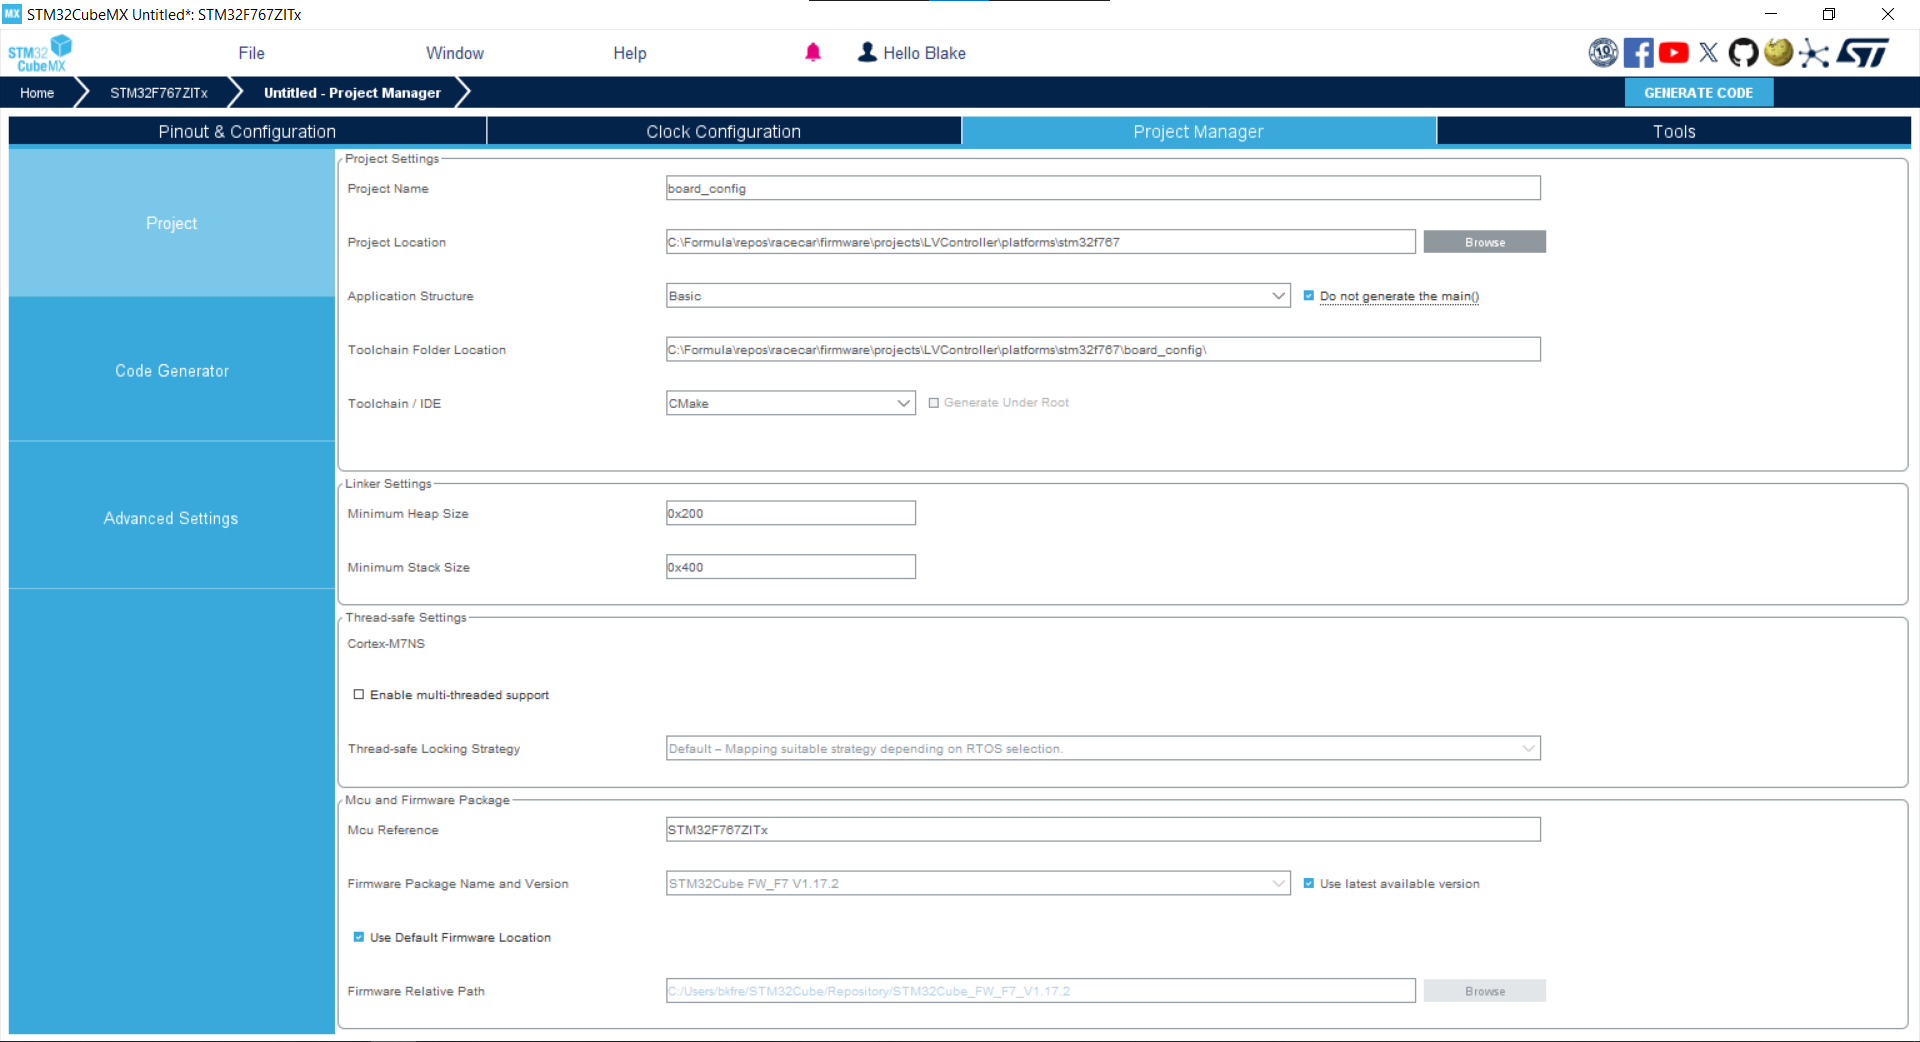
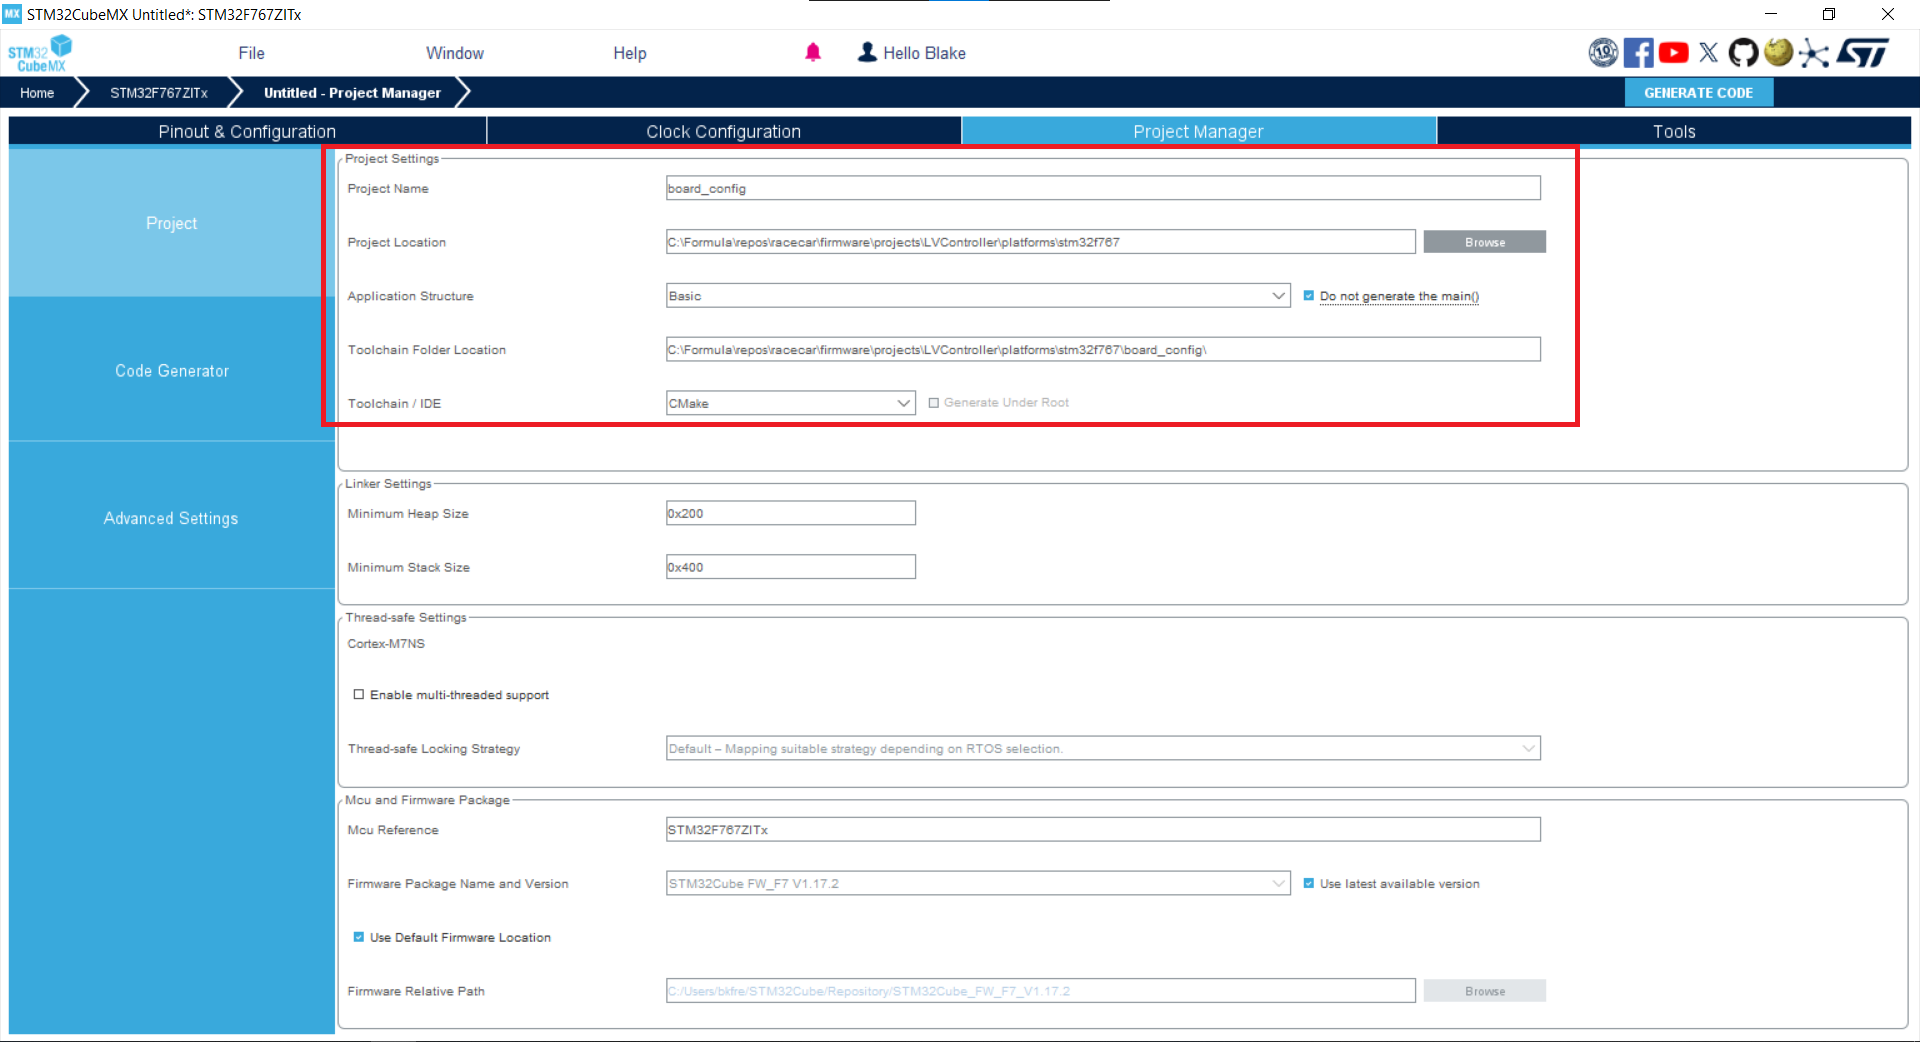
Highlight images and add CMake config

Changed region(s): [[0.1562, 0.3992, 0.8125, 0.4299], [0.1562, 0.1228, 0.8125, 0.1536]]

diff --git a/docs/docs/firmware/stm32/start-cubemx-project.md b/docs/docs/firmware/stm32/start-cubemx-project.md
@@ -1,75 +1,95 @@
----
-hide:
-    - toc
----
-
 # Start a CubeMX Project
 
 STM32CubeMX is a graphical software which generates code to configure an STM32 Microcontroller.
 
 The project must be configured correctly to fit our build system.
 
-1. Open CubeMX and start a new project.
+## Create a new project
 
-    ![new project](img/start-project/1-new-project.png)
+Open CubeMX and start a new project.
 
-2. In the "MCU/MPU Selector" tab, search for the microcontroller. Most of MAC FSAE boards are `STM32F767ZIT6`. Select the board and click "Start Project."
+![new project](img/start-project/1-new-project.png)
 
-    ![select mcu](img/start-project/2-board-select.png)
+In the "MCU/MPU Selector" tab, search for the microcontroller. Most of MAC FSAE boards are `STM32F767ZIT6`. Select the board and click "Start Project."
 
-3. When prompted about Memory Protection, select "Yes."
+!!! info
 
-    ![memory protection](img/start-project/3-default-config.png)
+    If you are using a "discovery board" like a [Nucleo](https://www.st.com/en/evaluation-tools/nucleo-f767zi.html) or the dashboard's [STM32F469-DISCO](https://www.st.com/en/evaluation-tools/32f469idiscovery.html), search for the board under "Board Selector" as this will configure many of the IO for the board's hardware.
 
-    !!! warning "Do not save!"
+![select mcu](img/start-project/2-board-select.png)
 
-        CubeMX will now create your new project but __do not save it yet!__ Some settings cannot be changed after the first save.
+When prompted about Memory Protection, select "Yes." If asked, initialize all peripherals in their default mode.
 
-4. Go to the "Project Manager → Project" tab and configure the "Project Settings":
-    - Project Name = `board_config`
-    - Project Location = Browse and select `racecar/firmware/projects/<PROJECT>/platforms/stm32f767`
+![memory protection](img/start-project/3-default-config.png)
 
-        > Replace `<PROJECT>` with your project folder created in [this tutorial](../project-structure/index.md).
+!!! warning "Do not save!"
 
-    - Application Structure = `Basic`
-    - Check `Do not generate main()`
-    - Toolchain Folder Location = leave as is.
-    - Toolchain / IDE = `CMake`
+    CubeMX will now create your new project but __do not save it yet!__ Some settings cannot be changed after the first save.
 
-    ![project-config](img/start-project/4-proj-mgr-project.png)
+## Configure Project Settings
 
-    You can ignore the Linker, Thread-safe, and Package settings sections.
+Go to the "Project Manager → Project" tab and configure the "Project Settings":
 
-5. Configure "Project Manager → Code Generator → Generated files"
-    - Check `Generate peripheral initialization as a pair of '.c/.h' files`
-    - Check `Delete previously generated files`
-    - Uncheck `Backup previously generate files`
-    - Uncheck `Keep User Code`
+- Project Name = `board_config`
+- Project Location = Browse and select `racecar/firmware/projects/<PROJECT>/platforms/stm32f767`
+
+    > Replace `<PROJECT>` with your project folder created in [this tutorial](../project-structure/index.md).
+
+- Application Structure = `Basic`
+- Check `Do not generate main()`
+- Toolchain Folder Location = leave as is.
+- Toolchain / IDE = `CMake`
+
+![project-config](img/start-project/4-proj-mgr-project.png)
+
+You can ignore the Linker, Thread-safe, and Package settings sections.
+
+Configure "Project Manager → Code Generator → Generated files"
+
+- Check `Generate peripheral initialization as a pair of '.c/.h' files`
+- Check `Delete previously generated files`
+- Uncheck `Backup previously generate files`
+- Uncheck `Keep User Code`
 
     !!! info
 
         CubeMX generates C files which you can add code to, but our [Architecture](../architecture/index.md) works at a higher level. Therefore, we do not support adding code to the generated files. Unchecking these settings enforces this rule since user code will be removed.
 
-    !!! success "Save Now"
+![project-config](img/start-project/5-proj-mgr-codegen.png)
 
-        You can now save the project. Click "File → Save Project" or ++ctrl+s++.
+!!! success "Save Now"
 
-6. Close CubeMX and open the Project Location we set earlier. You should see `platforms/stm32f767/board_config/board_config.ioc`. Rename the `board_config/` folder to `cubemx/` but do not rename the `board_config.ioc` file.
+    You can now save the project. Click "File → Save Project" or ++ctrl+s++.
 
-    ??? info "Why do we do this?"
+## Build System Integration
 
-        We shouldn't need to. The CMake build system is hardcoded to look for a `board_config.ioc` file in a `cubemx/` folder.
-        
-        If you want to write a better CMake function which takes the folder/filename as parameters, please be my guest. (Don't forget to update these docs afterwards!)
+Close CubeMX and open the Project Location we set earlier. You should see `platforms/stm32f767/board_config/board_config.ioc`. Rename the `board_config/` folder to `cubemx/` but do not rename the `board_config.ioc` file.
 
-7. Create a `.gitignore` file to ignore all generated files in the `cubemx/` folder. We only track the `.ioc` configuration file and let CubeMX regenerate the code files locally.
+??? info "Why do we do this?"
 
-    ```txt title="stm32f767/cubemx/.gitignore"
-    # Do not track any files generated by STM32CubeMX.
-    *
-    !.gitignore
-    !.board_config.ioc
-    ```
+    We shouldn't need to. The CMake build system is hardcoded to look for a `board_config.ioc` file in a `cubemx/` folder.
+    
+    If you want to write a better CMake function which takes the folder/filename as parameters, please be my guest. (Don't forget to update these docs afterwards!)
+
+Create a `.gitignore` file to ignore all generated files in the `cubemx/` folder. We only track the `.ioc` configuration file and let CubeMX regenerate the code files locally.
+
+```txt title="platforms/stm32f767/cubemx/.gitignore"
+# Do not track any files generated by STM32CubeMX.
+*
+!.gitignore
+!.board_config.ioc
+```
+
+Finally, create an `mcal_conf.cmake` file for the platform to inform the build system of how to generate the CubeMX code at build time.
+
+```cmake title="platforms/stm32f767/mcal_conf.cmake"
+set(MCAL stm32f767)
+include(${CMAKE_SOURCE_DIR}/cmake/build_cubemx.cmake)
+```
+
+> The `set(MCAL ...)` command is required in any platform's `mcal_conf`.
+>
+> The second line is unique to `stm32` platforms, providing CubeMX generation and the `arm-none-eabi` toolchain.
 
 ---
 
